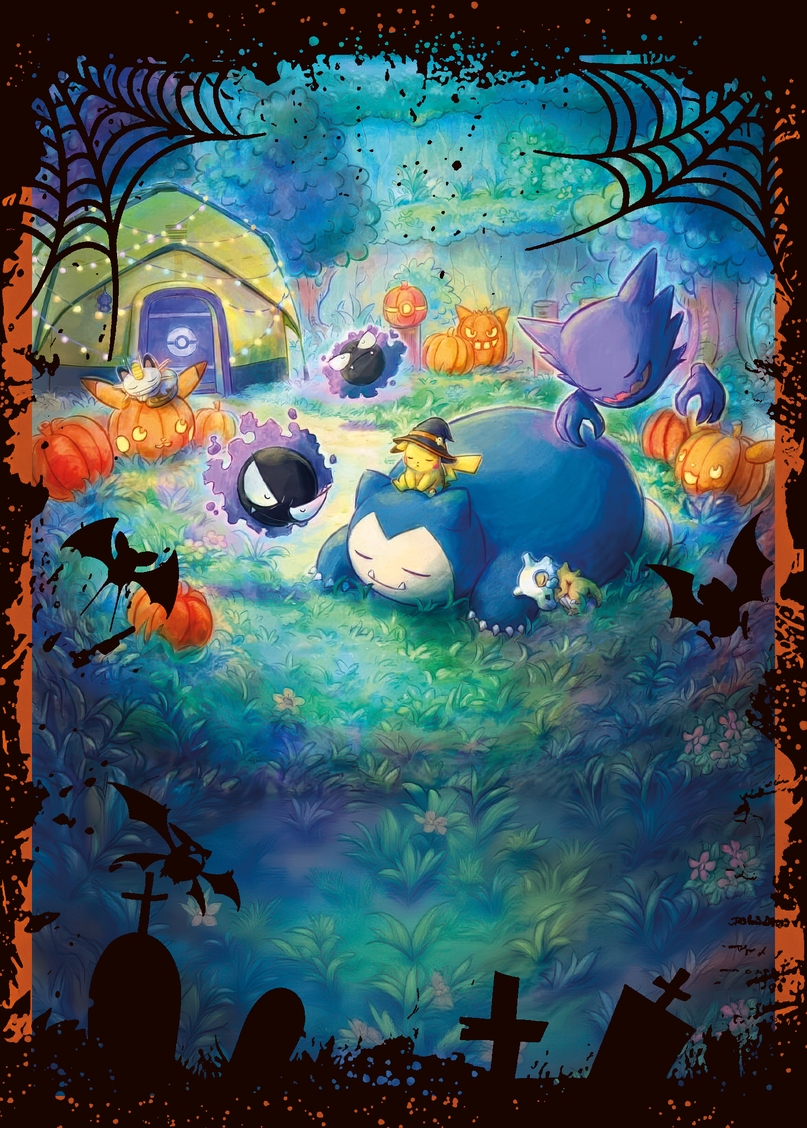
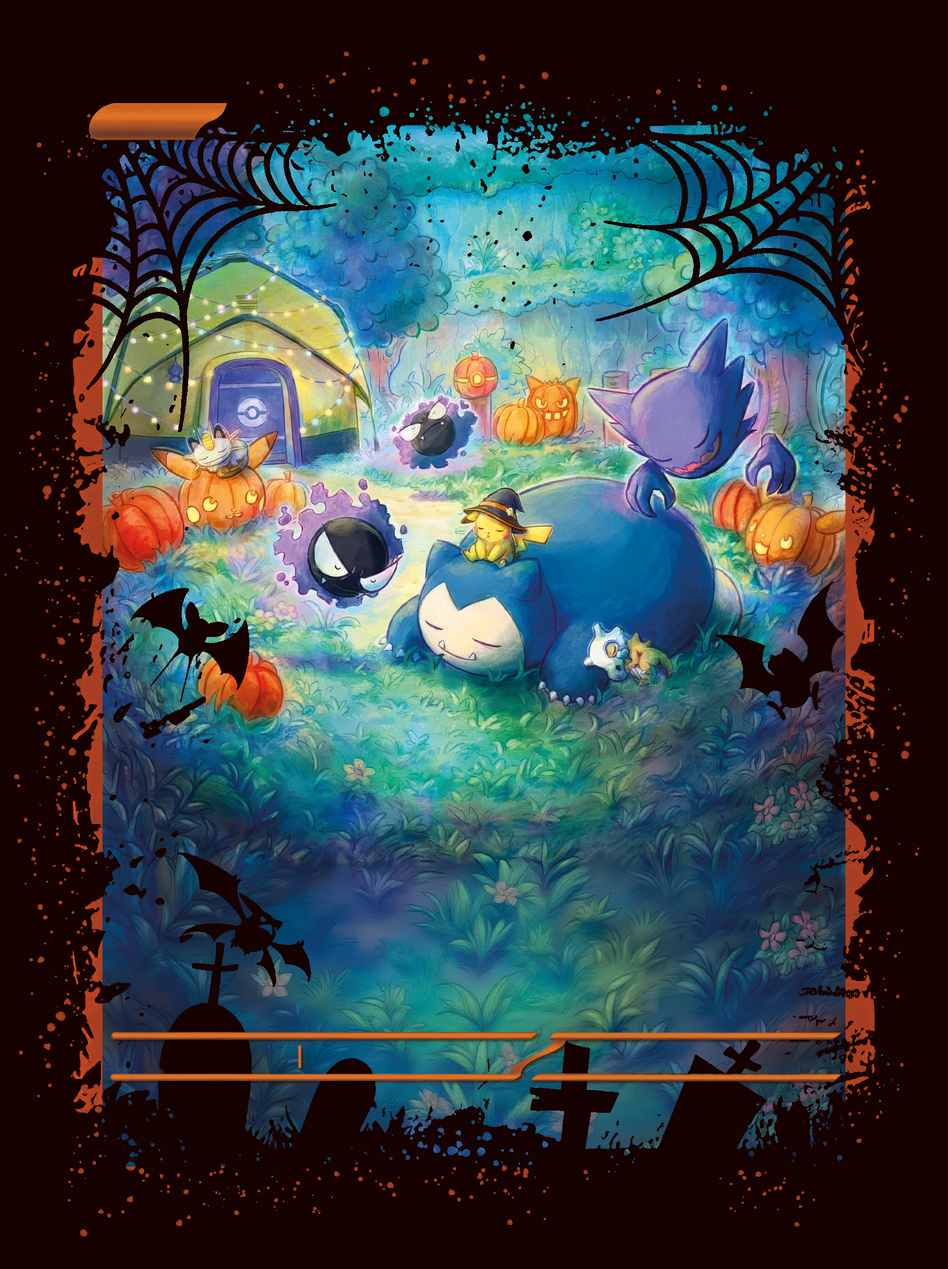
Updates

diff --git a/snorlax.html b/snorlax.html
@@ -1,0 +1,79 @@
+<!DOCTYPE html>
+<html lang="en">
+	<head>
+
+		<meta charset="utf-8" />
+		<meta name="viewport" content="width=device-width, initial-scale=1" />
+
+		<!-- meta -->
+		<title>Pokémon Cards CSS Holographic Effect</title>
+		<meta name="description" content="An exploration of what's possible with CSS for Pokemon Cards, simeydotme (Simon Goellner)" />
+		
+		<link rel="canonical" href="https://poke-holo.simey.me" />
+		<link rel="icon" href="favicon.png" />
+		<meta name="thumbnail" content="thumb.png" />
+
+		<meta property="og:url" content="https://poke-holo.simey.me" />
+		<meta property="og:type" content="website" />
+		<meta property="og:title" content="Pokémon Cards CSS Holographic Effect" />
+		<meta property="og:description" content="An exploration of what's possible with CSS for Pokemon Cards, simeydotme (Simon Goellner)" />
+		<meta property="og:image" content="https://poke-holo.simey.me/thumb.png" />
+
+		<meta name="twitter:title" content="Pokémon Cards CSS Holographic Effect">
+		<meta name="twitter:description" content="An exploration of what's possible with CSS for Pokemon Cards, simeydotme (Simon Goellner)">
+		<meta name="twitter:image" content="https://poke-holo.simey.me/thumb.png">
+		<meta name="twitter:card" content="summary_large_image">
+		<meta name="twitter:site" content="@simeydotme">
+
+		<!-- fonts -->
+		<link rel="preconnect" href="https://fonts.googleapis.com">
+		<link rel="preconnect" href="https://fonts.gstatic.com" crossorigin>
+		<link rel="stylesheet" href="https://fonts.googleapis.com/css2?family=Roboto+Condensed:ital,wght@0,300;0,700;1,300;1,700&family=Roboto:ital,wght@0,300;0,700;1,300;1,700&display=swap"> 
+		
+		<!-- styles -->
+		<link rel="stylesheet" href="/CustomCards/css/global.css" />
+		
+		<link rel="stylesheet" href="/CustomCards/css/cards/base.css" />
+		<link rel="stylesheet" href="/CustomCards/css/cards.css" />
+		<link rel="stylesheet" href="/CustomCards/css/cards/basic.css" />
+		<link rel="stylesheet" href="/CustomCards/css/cards/reverse-holo.css" />
+		<link rel="stylesheet" href="/CustomCards/css/cards/regular-holo.css" />
+		<link rel="stylesheet" href="/CustomCards/css/cards/cosmos-holo.css" />
+		<link rel="stylesheet" href="/CustomCards/css/cards/amazing-rare.css" />
+		<link rel="stylesheet" href="/CustomCards/css/cards/radiant-holo.css" />
+		<link rel="stylesheet" href="/CustomCards/css/cards/v-regular.css" />
+		<link rel="stylesheet" href="/CustomCards/css/cards/v-full-art.css" />
+		<link rel="stylesheet" href="/CustomCards/css/cards/v-max.css" />
+		<link rel="stylesheet" href="/CustomCards/css/cards/v-star.css" />
+		<link rel="stylesheet" href="/CustomCards/css/cards/trainer-full-art.css" />
+		<link rel="stylesheet" href="/CustomCards/css/cards/rainbow-holo.css" />
+		<link rel="stylesheet" href="/CustomCards/css/cards/rainbow-alt.css" />
+		<link rel="stylesheet" href="/CustomCards/css/cards/secret-rare.css" />
+		<link rel="stylesheet" href="/CustomCards/css/cards/trainer-gallery-holo.css" />
+		<link rel="stylesheet" href="/CustomCards/css/cards/trainer-gallery-v-regular.css" />
+		<link rel="stylesheet" href="/CustomCards/css/cards/trainer-gallery-v-max.css" />
+		<link rel="stylesheet" href="/CustomCards/css/cards/trainer-gallery-secret-rare.css" />
+		<link rel="stylesheet" href="/CustomCards/css/cards/shiny-rare.css" />
+		<link rel="stylesheet" href="/CustomCards/css/cards/shiny-v.css" />
+		<link rel="stylesheet" href="/CustomCards/css/cards/shiny-vmax.css" />
+		<link rel="stylesheet" href="/CustomCards/css/cards/swsh-pikachu.css" />
+
+		<script type="module" crossorigin src="/CustomCards/assets/main.2513943e.js"></script>
+		<link rel="stylesheet" href="/CustomCards/assets/main.5924c511.css">
+	</head>
+	<body>
+			
+	</script>
+
+      <div id="app"></div>
+
+  <script>
+    // wymuszenie wyświetlenia tylko jednej, pierwszej karty
+    window.CARD_ID = "snorlax";
+  </script>
+
+  
+
+
+	</body>
+</html>
